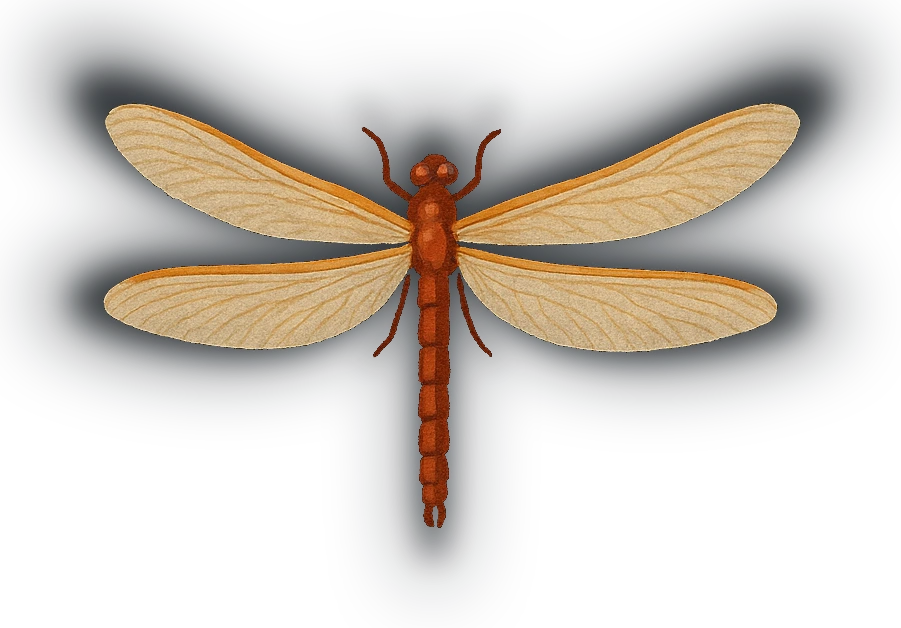
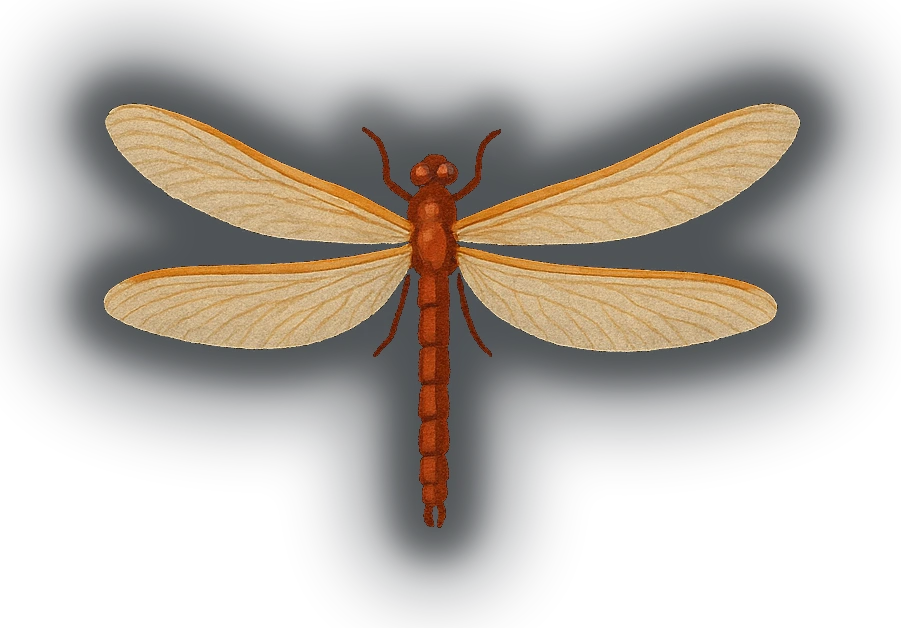
Dilate the halo instead of scaling it — Cooksonia clears the gate
The servo halo was a centre-scaled copy of the silhouette, transcribed from
the prototype. That only dilates a compact subject: on Cooksonia's bare
forking stems the copy slides radially outward instead of thickening, leaving
the 4 px band the gate measures bare on the inner side of every stem. With a
rim luminance of 0.27 against a sky of 0.25 the halo had to do all of the
work, and it measured 2.77:1 at the top of the ladder — below 3:1, so §11
excluded it from art.json.

Union the silhouette at 24 offsets around each ring's radius, blur once, then
composite at the servo's strength. Radii and blurs are unchanged (§11), and
measure and bake now share one composite path, so the halo can no longer be
clipped at measurement time and uncropped at bake time.

Cooksonia 2.77 ❌ → 3.05 ✅ at a0.45 (was a0.92). Every other subject held or
improved: Charnia 3.82→4.71, coal-forests 3.13→3.96, Dimetrodon 3.18→3.83,
Tiktaalik 4.06→4.62. Gates green, 70 tests pass.

diff --git a/scripts/bake-art.ts b/scripts/bake-art.ts
@@ -7,6 +7,9 @@
  * servo halo's spread-then-falloff ring (spread 4.5% @ blur 2%, then 8.5% @
  * blur 5.5%, §11), and the ladder search `[0.25, 0.45, 0.62, 0.78, 0.92]` ×
  * [dark, light] are all the prototype's own numbers, not re-derived here.
+ * One thing is deliberately NOT transcribed: the prototype spread the ring by
+ * scaling the silhouette about its centre, which only dilates a compact
+ * subject. See `haloRings()` — the radii and blurs are still the prototype's.
  *
  * Runs inside a real Chromium canvas via Playwright, same reason
  * gate-browser.ts does: byte-identical to what a real browser's canvas
@@ -223,33 +226,86 @@ async function bakeSheetInPage(
     return n ? s / n : 0.5;
   }
 
+  /** The pad the halo is composited into, both when measured and when baked. */
+  function padOf(src: HTMLCanvasElement): number {
+    return Math.round(Math.max(src.width, src.height) * 0.12);
+  }
+
+  /**
+   * §11's spread-then-falloff ring, as a true dilation of the silhouette.
+   *
+   * The prototype spread the silhouette by drawing it scaled up about its own
+   * centre, and this file transcribed that. A centre-scale is only a dilation
+   * for a compact subject: on a thin branching silhouette the copy slides
+   * radially outward instead of thickening, so the 4 px band the gate measures
+   * is left bare on the inner side of every stem. Cooksonia — bare forking
+   * stems, and luminance-matched to its own field (rim L 0.27 against sky
+   * L 0.25, so the halo has to do all of the work) — measured 2.77:1 at the
+   * top of the ladder because of it. Dilating by drawing the silhouette at K
+   * offsets around a circle of radius r covers that band for any shape.
+   *
+   * Ring radii and blurs are §11's, unchanged. Each ring is unioned at full
+   * alpha and blurred once, then composited at the servo's strength — blurring
+   * each offset copy separately would compound alpha where copies overlap and
+   * make `strength` mean something different for a thin subject than a fat one.
+   */
+  function haloRings(src: HTMLCanvasElement, dark: boolean): HTMLCanvasElement[] {
+    const S = Math.max(src.width, src.height);
+    const pad = padOf(src);
+    const sil = silhouette(src, dark ? 'rgb(6,10,15)' : 'rgb(255,248,235)');
+    const K = 24;
+    return ([[0.045, 0.02], [0.085, 0.055]] as const).map(([p, b]) => {
+      const union = document.createElement('canvas');
+      union.width = src.width + pad * 2;
+      union.height = src.height + pad * 2;
+      const ux = union.getContext('2d')!;
+      const r = S * p;
+      ux.drawImage(sil, pad, pad);
+      for (let k = 0; k < K; k++) {
+        const t = (2 * Math.PI * k) / K;
+        ux.drawImage(sil, pad + Math.cos(t) * r, pad + Math.sin(t) * r);
+      }
+      const ring = document.createElement('canvas');
+      ring.width = union.width;
+      ring.height = union.height;
+      const rx = ring.getContext('2d')!;
+      rx.filter = `blur(${Math.max(2, Math.round(S * b))}px)`;
+      rx.drawImage(union, 0, 0);
+      rx.filter = 'none';
+      return ring;
+    });
+  }
+
+  /** Field, halo, subject — the one composite order, shared by measure and bake. */
+  function compose(cx: CanvasRenderingContext2D, src: HTMLCanvasElement, rings: HTMLCanvasElement[] | null, strength: number) {
+    const pad = padOf(src);
+    if (rings && strength > 0) {
+      cx.save();
+      cx.globalAlpha = strength;
+      for (const ring of rings) cx.drawImage(ring, 0, 0);
+      cx.restore();
+    }
+    cx.drawImage(src, pad, pad);
+  }
+
   // Contrast across the subject's boundary, against a flat field colour.
-  function measureAgainstField(src: HTMLCanvasElement, field: [number, number, number], strength: number, dark: boolean | null): number {
+  function measureAgainstField(src: HTMLCanvasElement, rings: HTMLCanvasElement[] | null, field: [number, number, number], strength: number): number {
+    const pad = padOf(src);
     const cvs = document.createElement('canvas');
-    cvs.width = src.width;
-    cvs.height = src.height;
+    cvs.width = src.width + pad * 2;
+    cvs.height = src.height + pad * 2;
     const cx = cvs.getContext('2d', { willReadFrequently: true })!;
     cx.fillStyle = `rgb(${field[0]},${field[1]},${field[2]})`;
     cx.fillRect(0, 0, cvs.width, cvs.height);
-    if (dark !== null && strength > 0) {
-      const sil = silhouette(src, dark ? 'rgb(6,10,15)' : 'rgb(255,248,235)');
-      const S = Math.max(src.width, src.height);
-      cx.save();
-      cx.globalAlpha = strength;
-      for (const [p, b] of [[0.045, 0.02], [0.085, 0.055]] as const) {
-        const pad = S * p;
-        cx.filter = `blur(${Math.max(2, Math.round(S * b))}px)`;
-        cx.drawImage(sil, -pad, -pad, src.width + pad * 2, src.height + pad * 2);
-      }
-      cx.restore();
-      cx.filter = 'none';
-    }
-    cx.drawImage(src, 0, 0);
+    compose(cx, src, rings, strength);
     const img = cx.getImageData(0, 0, cvs.width, cvs.height).data;
     const md = src.getContext('2d', { willReadFrequently: true })!.getImageData(0, 0, src.width, src.height).data;
     const W = cvs.width, H = cvs.height, R = 4;
     let inSum = 0, inN = 0, outSum = 0, outN = 0;
-    const A = (x: number, y: number) => (x < 0 || y < 0 || x >= W || y >= H ? 0 : md[(y * W + x) * 4 + 3]!);
+    const A = (x: number, y: number) => {
+      const sx = x - pad, sy = y - pad;
+      return sx < 0 || sy < 0 || sx >= src.width || sy >= src.height ? 0 : md[(sy * src.width + sx) * 4 + 3]!;
+    };
     for (let y = 0; y < H; y++) {
       for (let x = 0; x < W; x++) {
         const a = A(x, y);
@@ -281,8 +337,11 @@ async function bakeSheetInPage(
   // The servo: smallest strength that clears GATE against the WORST sampled
   // field colour; never accept worse than no halo at all (§11).
   function solveHalo(src: HTMLCanvasElement, fields: [number, number, number][], gate: number, ladder: number[]) {
+    // Each polarity's rings depend only on the subject, so they are built once
+    // and reused across every rung of the ladder and every sampled field.
+    const ringsFor = [true, false].map((d) => haloRings(src, d));
     const worstOf = (strength: number, dark: boolean | null) =>
-      Math.min(...fields.map((f) => measureAgainstField(src, f, strength, dark)));
+      Math.min(...fields.map((f) => measureAgainstField(src, dark === null ? null : ringsFor[dark ? 0 : 1]!, f, strength)));
     let best = { r: worstOf(0, null), strength: 0, dark: null as boolean | null };
     if (best.r >= gate) return best;
     for (const a of ladder) {
@@ -296,25 +355,11 @@ async function bakeSheetInPage(
   }
 
   function bakeHalo(src: HTMLCanvasElement, strength: number, dark: boolean | null): HTMLCanvasElement {
+    const pad = padOf(src);
     const padded = document.createElement('canvas');
-    const S = Math.max(src.width, src.height);
-    const pad = Math.round(S * 0.12);
     padded.width = src.width + pad * 2;
     padded.height = src.height + pad * 2;
-    const cx = padded.getContext('2d')!;
-    if (dark !== null && strength > 0) {
-      const sil = silhouette(src, dark ? 'rgb(6,10,15)' : 'rgb(255,248,235)');
-      cx.save();
-      cx.globalAlpha = strength;
-      for (const [p, b] of [[0.045, 0.02], [0.085, 0.055]] as const) {
-        const hp = S * p;
-        cx.filter = `blur(${Math.max(2, Math.round(S * b))}px)`;
-        cx.drawImage(sil, pad - hp, pad - hp, src.width + hp * 2, src.height + hp * 2);
-      }
-      cx.restore();
-      cx.filter = 'none';
-    }
-    cx.drawImage(src, pad, pad);
+    compose(padded.getContext('2d')!, src, dark === null ? null : haloRings(src, dark), strength);
     return padded;
   }
 
